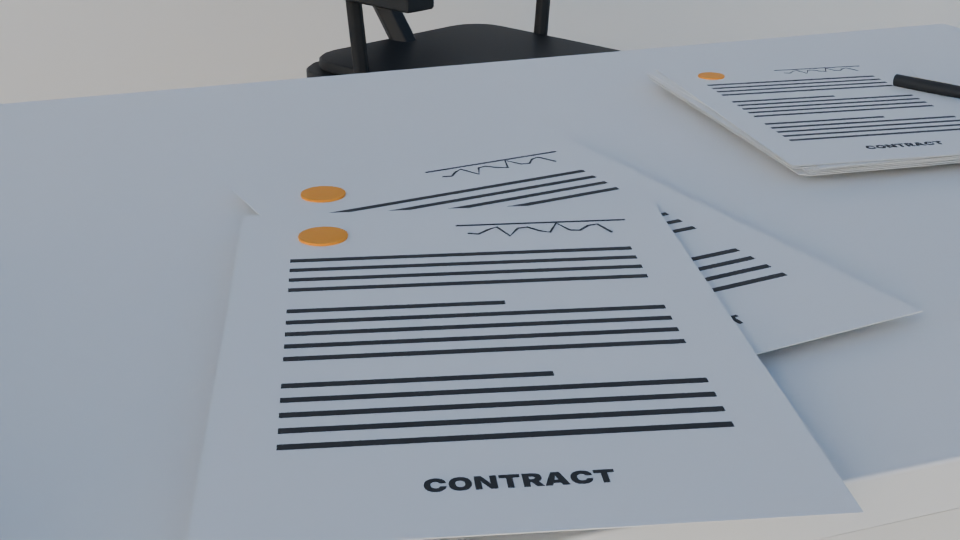
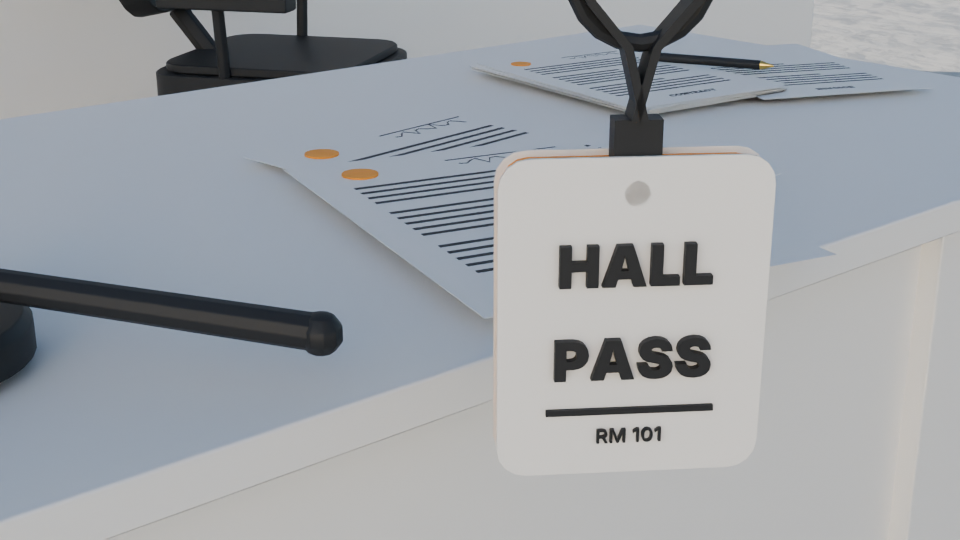
Gun rights episode: real props wired in (hall pass, boxed TV, donkey), reframes
Claude-Session: https://claude.ai/code/session_01EgStzJ3TPUa8ByCo5bYLDX

diff --git a/freemarket_defense/scripts/episode_scenes.py b/freemarket_defense/scripts/episode_scenes.py
@@ -146,14 +146,14 @@ def hook():
 def paper():
     """A desk: the document, a gavel, a stack of papers; a second paper slides over the first (static here)."""
     place("commerce", "desk", (0, 0, 0))
-    place("commerce", "office_chair", (-1.4, 0.6, 0), math.radians(25))
+    place("commerce", "office_chair", (-1.7, 1.0, 0), math.radians(35))
     Z = 0.758
     d1 = place("commerce", "contract", (0.1, 0.1, Z), math.radians(8), 1.3)
     d2 = place("commerce", "contract", (0.22, 0.02, Z + 0.004), math.radians(-14), 1.3)
     place("commerce", "gavel", (0.2, -0.45, Z), math.radians(20))
     place("commerce", "document_stack", (-0.1, 0.45, Z), math.radians(-5))
     if has("household", "hall_pass"):
-        place("household", "hall_pass", (0.42, 0.35, Z), math.radians(30))
+        place("household", "hall_pass", (0.55, -0.22, Z), math.radians(-35))
     if has("symbols", "flag_ancap_desk"):
         place("symbols", "flag_ancap_desk", (-0.45, 0.42, Z), math.radians(-20))
     box("wall", (0.2, 8, 3.2), (-2.5, 0, 1.6), None, 0.02, pbr("LIB_Body", (0.82, 0.81, 0.79), rough=0.6))
@@ -170,12 +170,13 @@ def tv_shop():
     place("city", "tree_round", (-7, -3, 0.15), 1.0)
     place("city", "tree_small", (8, -3.5, 0.15), 2.0)
     place("city", "street_lamp", (4, -4, 0.15), D)
-    if has("household", "tv_boxed"):
-        b = place("household", "tv_boxed", (1.2, -2.4, 0.55), math.radians(100))
-        b.rotation_euler = (math.radians(12), 0, math.radians(100))
+    hd = math.radians(-110)
+    buyer = person("Buyer", 0.6, -2.0, hd, "walk")
+    if has("household", "tv_boxed"):  # carried in front of the chest, long side across the body
+        b = place("household", "tv_boxed", (0.6 + 0.4 * math.cos(hd), -2.0 + 0.4 * math.sin(hd), 0.62), hd)
+        b.rotation_euler = (math.radians(6), 0, hd)
     else:
         place("commerce", "cardboard_box", (1.2, -2.4, 0.5), math.radians(30))
-    person("Buyer", 0.6, -2.0, math.radians(-110), "walk")
     person("Shop1", -4, -5.5, math.radians(20), "talk")
     person("Shop2", -4.8, -4.8, math.radians(-150), "casual")
     person("Shop3", 7, -6, math.radians(170), "walk", age="child")
@@ -199,8 +200,6 @@ def door():
         place("city", "fence_picket", (x, 2.5, 0), 0) if has("city", "fence_picket") else None
     if has("symbols", "flag_ancap_porch"):
         place("symbols", "flag_ancap_porch", (4 - 0.1, 2.8, 0), -D)
-    if has("household", "front_door"):
-        place("household", "front_door", (4, 1.2, 0), -D)
     # three enforcers on the walk, one knocking distance away; a neighbour watching
     person("E1", 2.6, -2.2, math.radians(80), "walk", "held", accent=ACCENT)
     person("E2", 4.6, -3.4, math.radians(95), "walk", "slung", accent=ACCENT)
@@ -238,10 +237,13 @@ def donkey():
     ground((0.5, 0.52, 0.42))
     for i in range(-4, 5):
         place("city", "fence_picket", (i * 4, 4, 0), 0) if has("city", "fence_picket") else None
-    place("city", "tree_wide", (-6, 7, 0), 0.5)
-    place("buildings", "farm_barn_silo", (18, 12, 0), math.radians(-110))
+    place("city", "tree_wide", (-14, 13, 0), 0.5)
+    place("city", "tree_round", (11, 10, 0), 2.0)
+    place("buildings", "farm_barn_silo", (18, 14, 0), math.radians(-110))
+    if has("household", "donkey_grazing"):
+        place("household", "donkey_grazing", (5, 6, 0), math.radians(150))
     if has("household", "donkey"):
-        place("household", "donkey", (0, 0, 0), math.radians(20))
+        place("household", "donkey", (0, 0, 0), math.radians(35))
     else:
         box("donkey_placeholder", (1.4, 0.5, 1.0), (0, 0, 0.8), None, 0.1, pbr("LIB_Body", (0.82, 0.81, 0.79)))
 

diff --git a/freemarket_defense/scripts/episode.py b/freemarket_defense/scripts/episode.py
@@ -24,9 +24,9 @@ SHOTS = [
     dict(id="S01", scene="hook", paras=[0, 1],
          cam=((-150, -95, 28), (-105, -62, 18)), look=((0, 5, 12), (-5, 2, 10)), lens=40),
     dict(id="S02", scene="paper", paras=[2, 3],
-         cam=((0.95, -0.55, 1.12), (0.7, 0.15, 1.0)), look=((0.15, 0.0, 0.76), (0.12, 0.1, 0.76)), lens=50),
+         cam=((0.95, -0.55, 1.12), (0.95, -0.75, 1.0)), look=((0.15, 0.0, 0.76), (0.45, -0.2, 0.76)), lens=50),
     dict(id="S03", scene="tv_shop", paras=[4, 5, 6],
-         cam=((11, -14, 2.3), (7.5, -9.5, 1.9)), look=((0, 0.5, 1.6), (0.5, 0, 1.3)), lens=35),
+         cam=((12, -12, 2.3), (7.5, -8.5, 1.8)), look=((0.8, -1.2, 1.3), (0.8, -2.0, 1.1)), lens=35),
     dict(id="S04", scene="door", paras=[7, 8, 9],
          cam=((9, -16, 2.0), (6, -10.5, 1.6)), look=((4, 3.5, 1.6), (4, 2.5, 1.4)), lens=32),
     dict(id="S05", scene="table", paras=[10, 11, 12],
@@ -34,7 +34,7 @@ SHOTS = [
     dict(id="S06", scene="town", paras=[13, 14, 15, 16, 17, 18],
          cam=((-45, -4, 2.5), (-150, -120, 75)), look=((20, 0, 3), (0, 15, 0)), lens=30),
     dict(id="TAG", scene="donkey", paras=[19],
-         cam=((7, -4, 1.3), (4.2, -2.2, 1.1)), look=((0, 0, 0.9), (0, 0, 0.95)), lens=50),
+         cam=((4.6, -4.2, 1.35), (3.1, -2.9, 1.15)), look=((0.2, 0, 0.95), (0.3, 0.1, 1.0)), lens=50),
 ]
 
 
